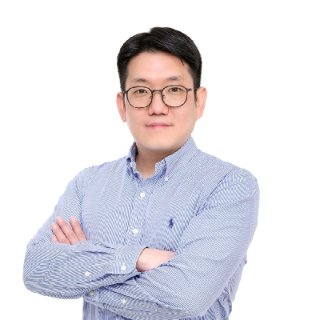
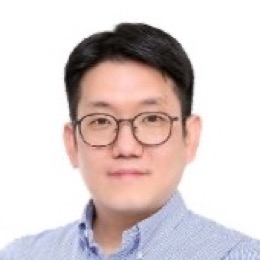
feat(crossing): Lovable workshop에도 연사 카드, 사진은 얼굴만 잘라
사용자: "임성엽님 링크드인이랑 이분 전사록 2개 참고해서 조여준님처럼". 워크숍에서 하는 것 다섯은
10/29, 11/05 워크숍 미팅 전사록과 11/07 연사 회신에서. 사진 둘은 LinkedIn 프로필에서 얼굴만 260px로
(프로필 테두리 문구 제외), CSS 확대는 뺌. 오프닝 카드의 "검증받고"를 "꺼내 보고"로(brand 9장).

diff --git a/data/naru.ts b/data/naru.ts
@@ -2804,9 +2804,10 @@ export const naru = {
               photo: "/crossing/speakers/ethan-cho.jpg",
               name: { ko: "조여준", en: "Ethan Cho" },
               role: { ko: "더벤처스 파트너, CIO", en: "Partner & CIO, TheVentures" },
+              agendaLabel: { ko: "나눌 이야기 (30분)", en: "What he'll talk about (30 min)" },
               agenda: [
                 { ko: "요즘 세대와 한국의 창업 생태계를 보며 느끼는 것", en: "What he sees in this generation and in Korea's startup ecosystem" },
-                { ko: "학생이 아이디어를 진지하게 검증받고 현업의 피드백을 받을 자리가 왜 부족한지", en: "Why students rarely get to test an idea seriously and hear back from people in the field" },
+                { ko: "학생이 아이디어를 진지하게 꺼내 보고 현업의 피드백을 받을 자리가 왜 부족한지", en: "Why students rarely get to test an idea seriously and hear back from people in the field" },
                 { ko: "그래서 내년에 준비하는 이니셔티브와 그 배경, 준비 중인 프로그램 소개", en: "The initiative he is preparing for next year, why, and the program behind it" },
               ],
             },
@@ -2814,7 +2815,25 @@ export const naru = {
           { what: { ko: "출제사의 30분. 아직 손으로 하는 일 하나와 그 일이 왜 있는지를 출제사가 직접 말로", en: "30 minutes with the issuing company: the task it still does by hand and why it exists, in its own words" }, where: { ko: "현장", en: "On site" } },
           { what: { ko: "팀 맺기. AI 유형 테스트 결과로 현장에서. 모든 팀에 싱가포르 학생 1~2명과 한국 학교별 학생", en: "Forming teams on site from the AI type test. Every team has 1 to 2 students from Singapore and students from each school in Korea" }, where: { ko: "현장", en: "On site" } },
           { what: { ko: "트랙 고르기. 1~3순위를 적고 운영진이 고르게 섞음", en: "Choosing tracks: write your top three, and the organizers mix teams evenly" }, where: { ko: "현장", en: "On site" } },
-          { what: { ko: "Lovable workshop. 사이트 넷을 띄운 Carraway & Gatsby가 진행", en: "Lovable workshop: run by Carraway & Gatsby, who launched four sites with it" }, where: { ko: "현장", en: "On site" } },
+          // 2026-11-09 (사용자: "임성엽님 링크드인이랑 이분 전사록 2개 참고해서 조여준님처럼"): 연사 카드. 근거는 10/29, 11/05 워크숍 미팅 전사록과
+          // 11/07 연사의 회신(문제 정의, 해결책 탐색, 프롬프트 설계, 프로토타이핑까지의 사고 과정, 실습, 끝난 뒤 질의응답). 사진은 본인 LinkedIn 프로필(얼굴만 잘라 260px).
+          {
+            what: { ko: "Lovable workshop. 사이트 넷을 띄운 Carraway & Gatsby가 진행", en: "Lovable workshop: run by Carraway & Gatsby, who launched four sites with it" },
+            where: { ko: "현장", en: "On site" },
+            speaker: {
+              photo: "/crossing/speakers/sungyeob-lim.jpg",
+              name: { ko: "임성엽", en: "Sungyeob Lim" },
+              role: { ko: "Carraway & Gatsby 대표", en: "Founder, Carraway & Gatsby" },
+              agendaLabel: { ko: "워크숍에서 하는 것", en: "What the workshop covers" },
+              agenda: [
+                { ko: "회사가 낸 이슈를 그대로 받지 않고, 회사가 이걸로 무엇을 풀고 싶은지 목적부터 정합니다.", en: "Don't take the issue as given. Start from what the company wants to solve with it." },
+                { ko: "목적에서 거꾸로 갑니다. AI에게 풀 방법 셋을 받아 하나를 고르고, 계속 되물으며 대화에 맥락을 쌓습니다.", en: "Work backwards from that goal: get three ways to solve it from AI, pick one, and keep pushing back so the context builds up." },
+                { ko: "쌓인 대화로 마지막 프롬프트를 뽑아 Lovable에 붙이면 시안이 뜹니다. 그 과정을 직접 보여 주고, 같이 해 봅니다.", en: "Turn that conversation into one final prompt and paste it into Lovable to get a first screen. He shows it live, then you try it." },
+                { ko: "'내가 이걸 매일 쓸까?' 회사의 이슈라도 해석하는 건 결국 나라서, 이 질문으로 돌아봅니다.", en: "\"Would I use this every day?\" Even with a company's issue, the reading of it comes from you." },
+                { ko: "Lovable이 잘하는 곳(시안, 가벼운 앱)과 다른 도구로 넘어갈 때를 짚고, 끝난 뒤에도 현장에 남아 질문을 받습니다.", en: "Where Lovable fits (first screens, light apps) and when to move on, and he stays after to take questions." },
+              ],
+            },
+          },
           { what: { ko: "멘토 시간표 열림. Day 2, 3 칸을 노트북에서 넣음", en: "The mentor timetable opens. Book Day 2 and 3 slots from a laptop" }, where: { ko: "멘토 시간표 페이지", en: "Timetable page" }, href: "/crossing/team?day=2" },
           { what: { ko: "팀의 생각 1장 쓰기. Day 1 PDF로 올려 두면 칸을 넣은 멘토가 미리 읽음", en: "Write the team's one page. Upload it as the Day 1 PDF and the mentor you booked reads it ahead" } },
         ],
@@ -3157,7 +3176,7 @@ export const naru = {
       dayOffset: number;
       /** 하루의 흐름(2026-11-05, day-flow 브리프). time은 KST "10:00" 꼴, 정하지 않았으면 비웁니다. 필참 표시는 없습니다(전원 전부 참여). */
       // href(2026-11-06, docs/first-click-brief.md F8): 장소가 우리 사이트의 페이지면 "어디" 글자가 그 링크.
-      flow?: { time?: string; what: Phrase; where?: Phrase; href?: string; speaker?: { photo: string; name: Phrase; role: Phrase; agenda: Phrase[] } }[];
+      flow?: { time?: string; what: Phrase; where?: Phrase; href?: string; speaker?: { photo: string; name: Phrase; role: Phrase; agendaLabel: Phrase; agenda: Phrase[] } }[];
       /** 노선도 정거장 위의 로고(2026-10-19). 흰색 단색 PNG. name은 스크린리더가 읽습니다. */
       // url (2026-10-20, hwang 브리프 3.8): 있으면 노선도 로고가 새 창 링크가 됩니다(호버 설명 대신).
       logo?: { src: string; name: string; w: number; h: number; url?: string };

diff --git a/components/crossing/redesign/copy.ts b/components/crossing/redesign/copy.ts
@@ -95,16 +95,31 @@ export const copy = {
   timetableLabel: ko("멘토 시간표, 미션 올리기", stage(1).timetableCta!.label),
   timetableNote: ko("Day 1부터 3까지 써요. Day 1(12.18) 낮 12시에 열리고, 칸은 노트북으로 넣어 주세요.", d.timetableNote),
 
-  // 2026-11-09 (사용자): Day 1 오프닝 세션 연사 카드. data/naru.ts stages[1].flow[0].speaker와 같은 길이.
-  openingAgendaLabel: ko("나눌 이야기 (30분)", { ko: "나눌 이야기 (30분)", en: "What he'll talk about (30 min)" }),
-  openingAgenda: kos(
-    [
-      "요즘 세대와 한국의 창업 생태계를 보며 느끼는 것",
-      "학생이 아이디어를 진지하게 검증받고 현업 피드백을 받을 자리가 왜 부족한지",
-      "그래서 내년에 준비하는 이니셔티브와 그 배경, 준비 중인 프로그램 소개",
-    ],
-    stage(1).flow![0].speaker!.agenda,
-  ),
+  // 2026-11-09 (사용자): Day 1 연사 카드. 키는 "날-흐름 줄 번호". data/naru.ts의 speaker.agenda와 같은 길이.
+  speakerLabel: {
+    "1-0": ko("나눌 이야기 (30분)", stage(1).flow![0].speaker!.agendaLabel),
+    "1-4": ko("워크숍에서 하는 것", stage(1).flow![4].speaker!.agendaLabel),
+  } as Record<string, Phrase>,
+  speakerAgenda: {
+    "1-0": kos(
+      [
+        "요즘 세대와 한국의 창업 생태계를 보며 느끼는 것",
+        "학생이 아이디어를 진지하게 꺼내 보고 현업 피드백을 받을 자리가 왜 부족한지",
+        "그래서 내년에 준비하는 이니셔티브와 그 배경, 준비 중인 프로그램 소개",
+      ],
+      stage(1).flow![0].speaker!.agenda,
+    ),
+    "1-4": kos(
+      [
+        "회사가 낸 이슈를 그대로 받지 않고, 회사가 이걸로 뭘 풀고 싶은지 목적부터 정해요",
+        "목적에서 거꾸로 가요. AI한테 풀 방법 셋을 받아 하나를 고르고, 계속 되물으며 대화에 맥락을 쌓아요",
+        "쌓인 대화로 마지막 프롬프트를 뽑아 Lovable에 붙이면 시안이 떠요. 직접 보여 주고, 같이 해 봐요",
+        "'내가 이걸 매일 쓸까?' 회사의 이슈라도 해석하는 건 결국 나거든요",
+        "Lovable이 잘하는 곳(시안, 가벼운 앱)과 다른 도구로 넘어갈 때를 짚고, 끝난 뒤에도 남아서 질문을 받아요",
+      ],
+      stage(1).flow![4].speaker!.agenda,
+    ),
+  } as Record<string, Phrase[]>,
 
   flow: {
     1: kos(

diff --git a/components/crossing/DayFlowModal.tsx b/components/crossing/DayFlowModal.tsx
@@ -152,9 +152,7 @@ export default function DayFlowModal({
                       {r.speaker && (
                         <div className="mt-3 rounded-xl card-sunken p-3.5 sm:p-4">
                           <div className="flex items-center gap-3.5">
-                            <span className="block h-16 w-16 shrink-0 overflow-hidden rounded-full bg-[#FFFFFF]">
-                              <Image src={r.speaker.photo} alt={r.speaker.name} width={160} height={160} className="h-full w-full origin-[50%_18%] scale-[1.75] object-cover" />
-                            </span>
+                            <Image src={r.speaker.photo} alt={r.speaker.name} width={130} height={130} className="h-16 w-16 shrink-0 rounded-full object-cover" />
                             <div className="min-w-0">
                               <p className={`${BODY} font-bold leading-snug text-white`}>{r.speaker.name}</p>
                               <p className={`break-keep ${META} leading-[1.5] text-naru-muted`}>{r.speaker.role}</p>

diff --git a/components/crossing/redesign/CrossingSeoul.tsx b/components/crossing/redesign/CrossingSeoul.tsx
@@ -565,8 +565,8 @@ export default function CrossingSeoul() {
                 time: r.time, what: t(C.flow[st.dayOffset]?.[k] ?? r.what), where: r.where && t(r.where), href: r.href,
                 speaker: r.speaker && {
                   photo: r.speaker.photo, name: t(r.speaker.name), role: t(r.speaker.role),
-                  agendaLabel: t(C.openingAgendaLabel),
-                  agenda: (st.dayOffset === 1 && k === 0 ? C.openingAgenda : r.speaker.agenda).map(t),
+                  agendaLabel: t(C.speakerLabel[`${st.dayOffset}-${k}`] ?? r.speaker.agendaLabel),
+                  agenda: (C.speakerAgenda[`${st.dayOffset}-${k}`] ?? r.speaker.agenda).map(t),
                 },
               })),
             } : null}
